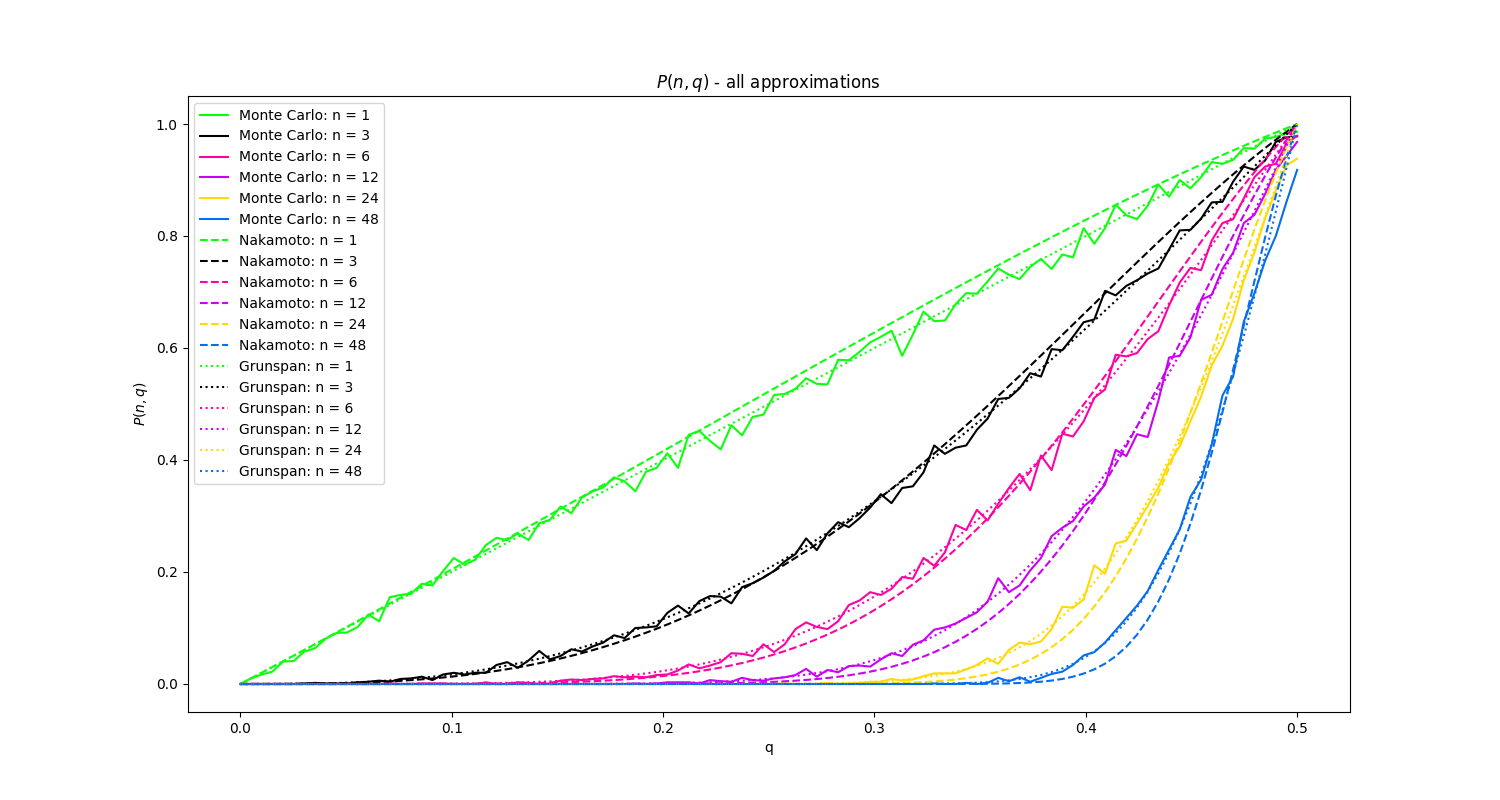
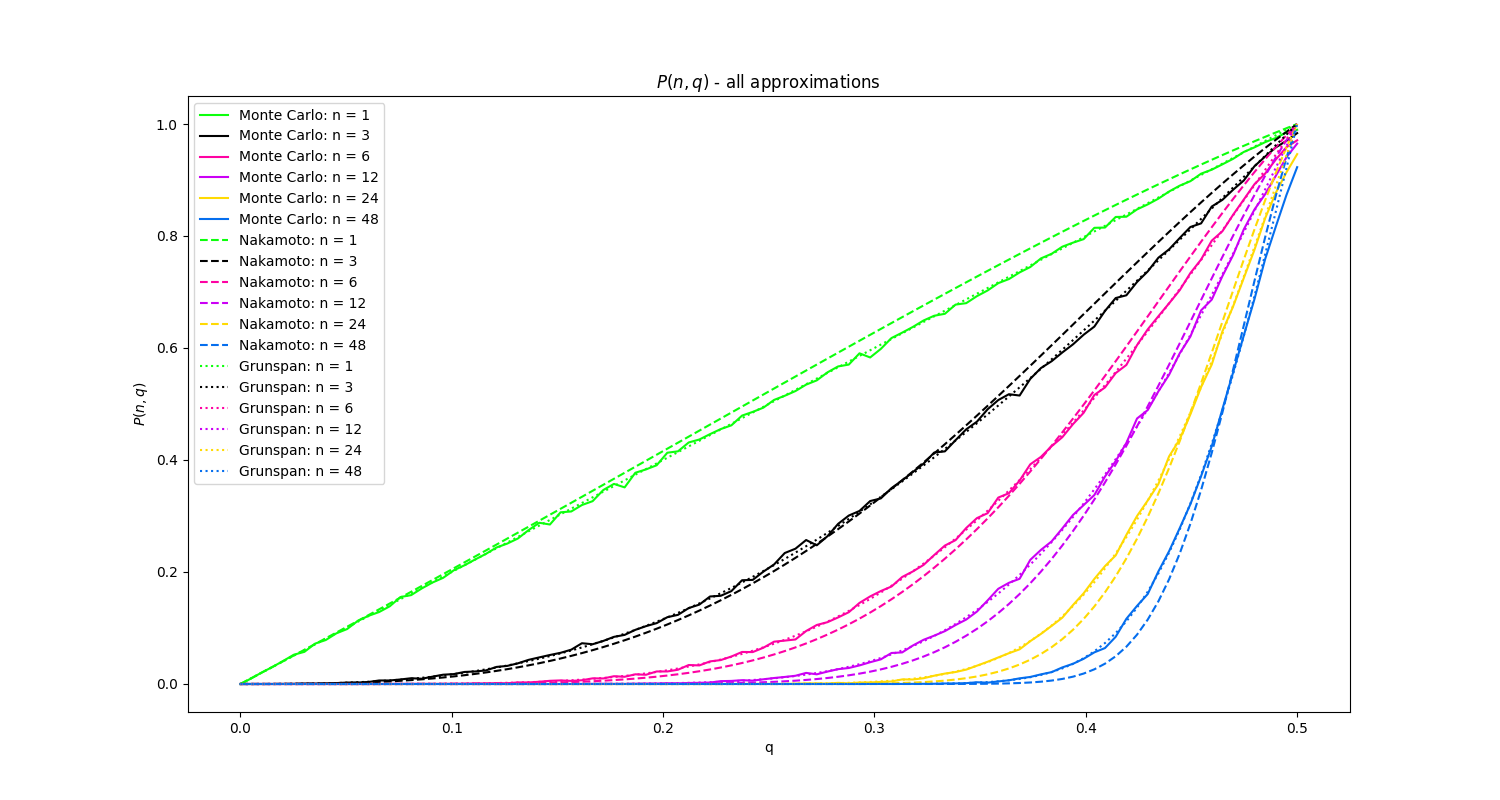
more accurate graphs

diff --git a/double_spending.py b/double_spending.py
@@ -1,5 +1,5 @@
 from matplotlib import pyplot as plt
-from typing import Callable, List
+from typing import Callable
 import numpy as np
 import argparse
 import math
@@ -15,7 +15,7 @@ P_S = [0.001, 0.01, 0.1]
 # Difference in chain length when attacker gives up
 GIVE_UP_DIFF = 50
 # Number of experiments in simulator
-SIM_EXP_NUM = 1000
+SIM_EXP_NUM = 10000
 
 # P(n,q) approximate formulas
 
